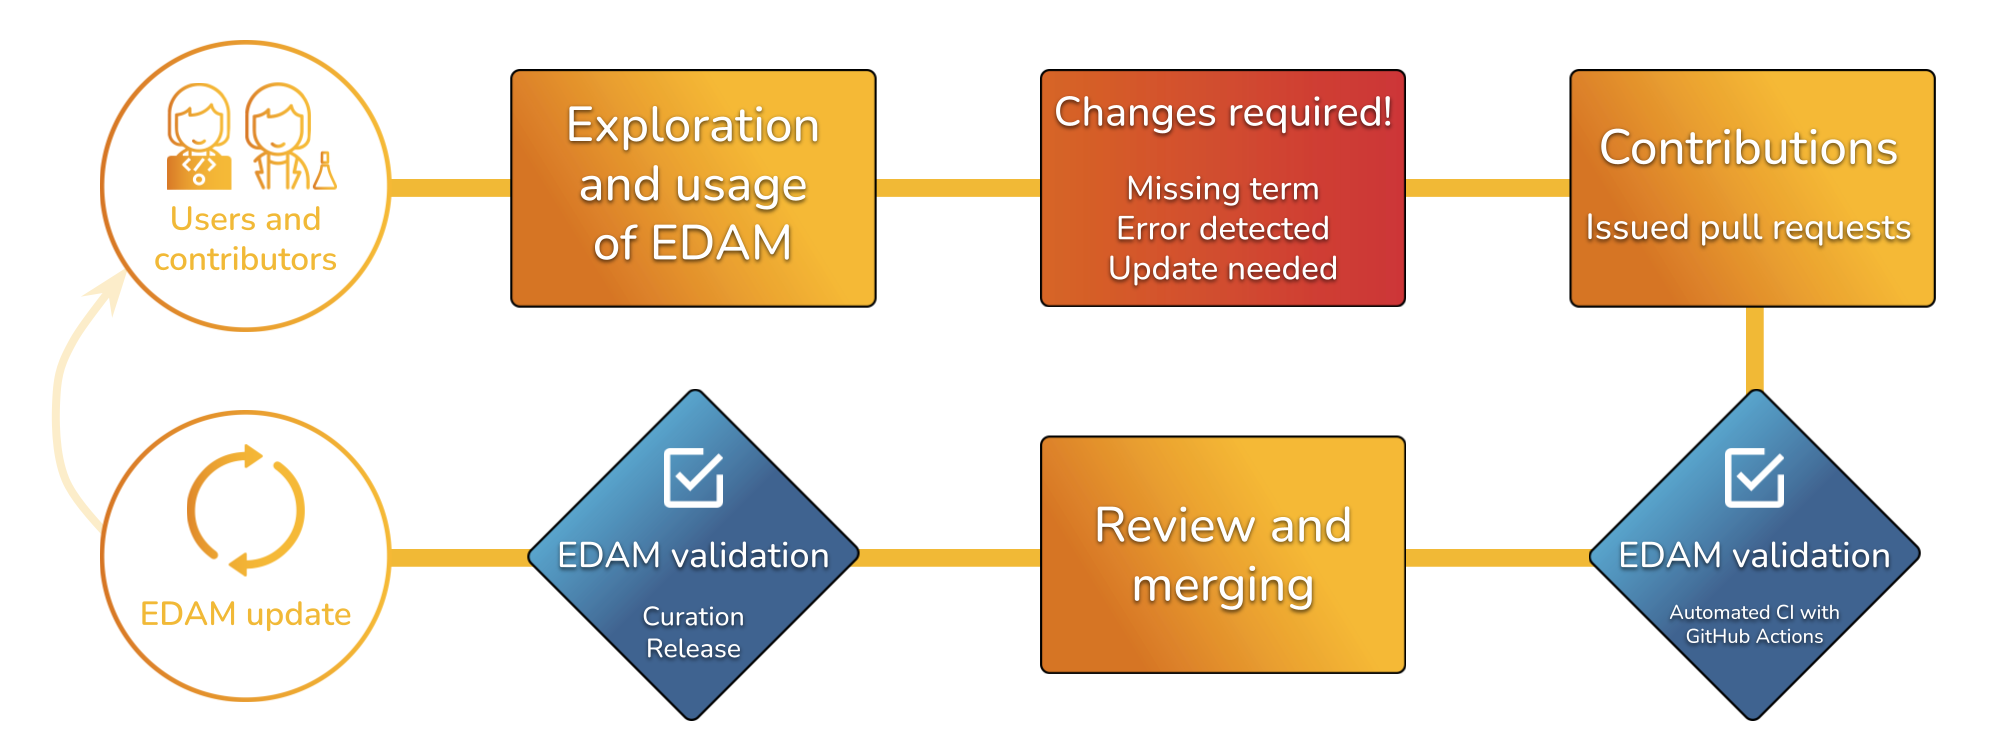
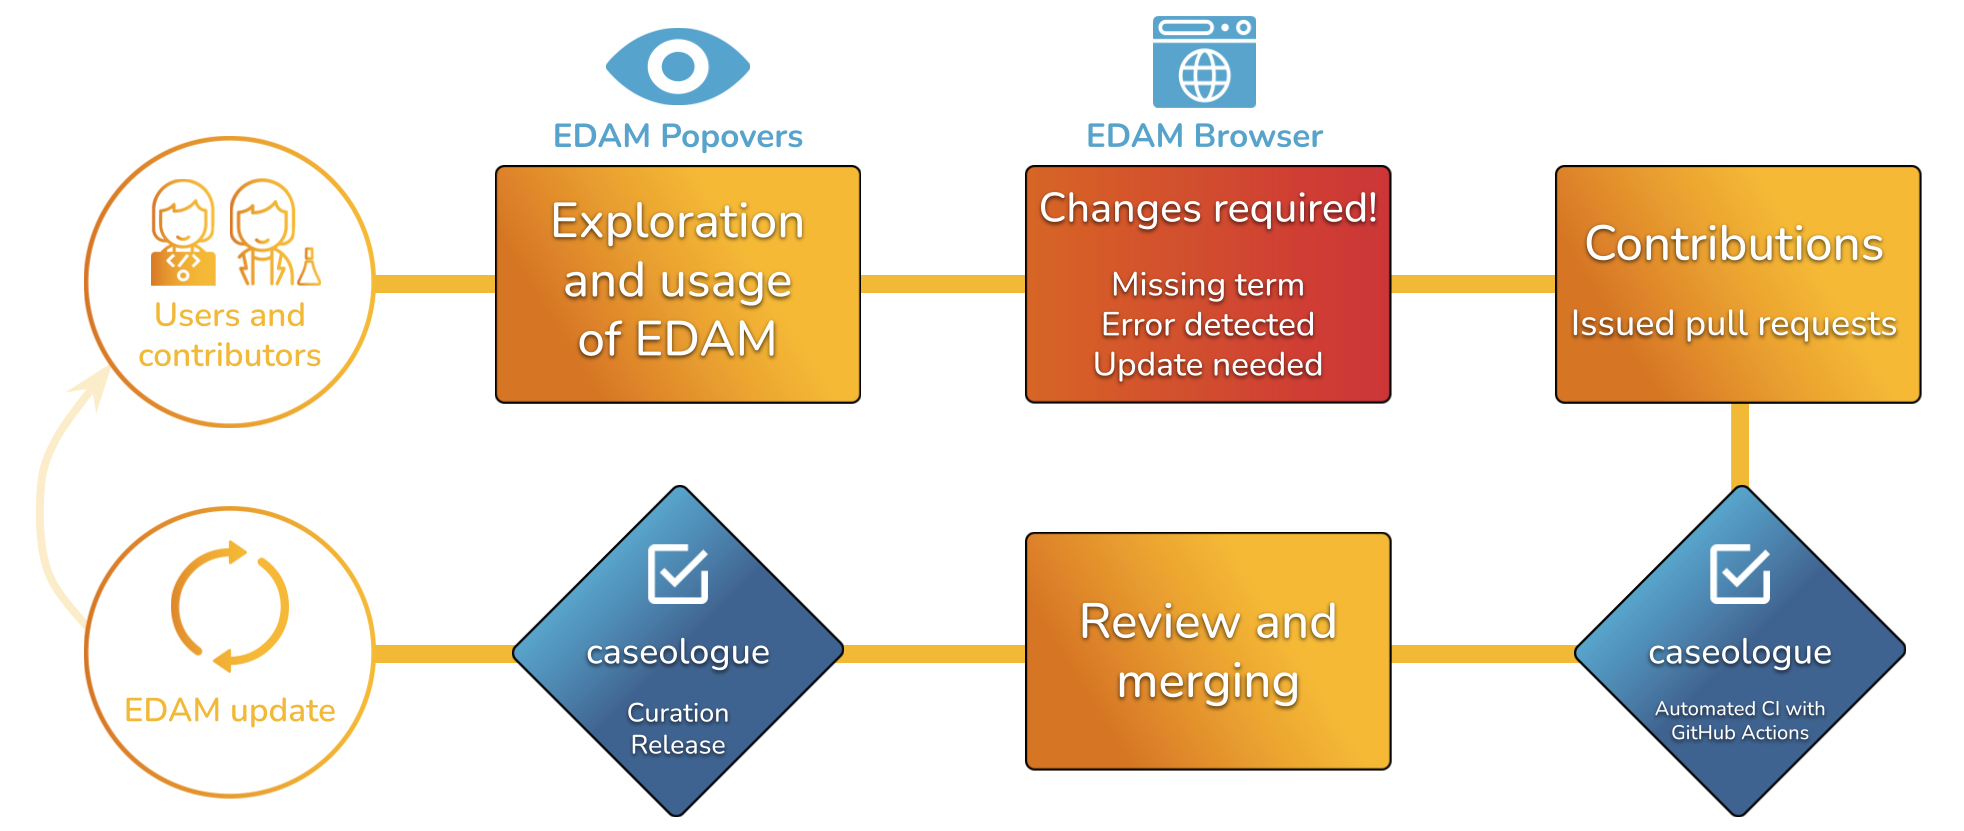
Updated docuementation content

Changed region(s): [[0.0, 0.0, 0.9939, 1.0]]

diff --git a/docs/workflow.rst b/docs/workflow.rst
@@ -3,4 +3,26 @@
 Workflows
 =============
 
-GitHub Actions workflow were designed to run all caseologue tools. 
+
+.. image:: _static/github_actions.png
+   :width: 300
+   :align: right
+
+The caselogue suite is implemented in **GitHub Actions** to run quality checks at **each Pull Requests merge** into the main EDAM Ontology repository. It can also be **run manually** when needed from the caseologue and the main edamontology repositories.
+
+You can test it yourself on the curent developpement version of EDAM clicking this `link <https://github.com/edamontology/caseologue/actions/workflows/caseologue.yml>`_ and click on "Run workflow". 
+
+.. image:: _static/run_wf.png
+  :width: 800
+  :align: center
+
+|
+A `reusable workflow <https://docs.github.com/en/actions/using-workflows/reusing-workflows>`_ is availble for each test in the caseologue repository (`here  <https://github.com/edamontology/caseologue/tree/main/.github/workflows>`_).
+The *caseologue_robot_report*, *caseologue_robot_reason* and *caseologue_python* workflows all take as input a path to an EDAM.owl file. *caseologue_python* can also take as input the error level options chosen to run the tool (see :doc:`caseologue custom python script page <caseologue_python>`)
+
+These reusable workflows can't run on their own, they need to be **called** by another GitHub Actions yaml file. This "caller" workflow will need to **upload** the tested EDAM.owl file as an `artifact <https://docs.github.com/en/actions/using-workflows/storing-workflow-data-as-artifacts>`_ so it can be **dowloaded** and used by the "called" worflow (i.e. *caseologue_robot_report*, *caseologue_robot_reason* or *caseologue_python*).
+
+You can find is an **example** of a script calling the caseologue suite of tool to run it on the current dev version on EDAM `here <https://github.com/edamontology/caseologue/blob/main/.github/workflows/caseologue.yml>`_.
+
+.. image:: _static/caseologue_wf.png
+  :width: 800

diff --git a/docs/robot_report.rst b/docs/robot_report.rst
@@ -3,11 +3,11 @@
 ROBOT report 
 =============
 
-General quality control for ontology is run on EDAM using the ROBOT `report command <http://robot.obolibrary.org/report>`_ from the robot suite. 
-Robot report is a command line tool caling a customizable list of `SPARQL queries <http://robot.obolibrary.org/report_queries/>`_. 
+**A general quality control** for ontology is run on EDAM using the ROBOT `report command <http://robot.obolibrary.org/report>`_ from the robot suite. 
+Robot report is a **command line tool** calling a **customizable list** of `SPARQL queries <http://robot.obolibrary.org/report_queries/>`_  that ensure **basic requirement** for all ontology fallowing the obo guidelines (e.g. presence of a liscence, more than one label in a entity) 
 Some of these queries were modified to fit the EDAM properties declaration. 
 
-You can check out our custom selection of the robot SPARQL queries in our caseologue repository  `here <https://github.com/edamontology/caseologue/tree/main/robot>`_. 
+You can check out our custom selection of the robot SPARQL queries in our caseologue repository  `here <https://github.com/edamontology/caseologue/tree/main/robot/report_queries.txt>`_. 
 
 Installation & Usage
 ---------------------
@@ -16,5 +16,6 @@ You can check out robot installation documentation  `here <http://robot.obolibra
 
 Once robot is installed you can run robot report on EDAM using this command
 ::
-robot report --input <path to EDAM> --output <output tsv file> --profile report_queries.txt
-::
+    robot report --input <path to EDAM> --output <output tsv file> --profile report_queries.txt
+
+This tool returns in the output tsv file a table of all the detected errors.

diff --git a/docs/caseologue_python.rst b/docs/caseologue_python.rst
@@ -4,7 +4,9 @@
 Caseologue custom python script
 =================================
 
-This custom pyhton script complement the test performed by the ELK reasoner and our custom version of the robot report tool. It alows us to test for specific features of the EDAM ontology (e.g. check for wikipedia links or for mandatory property)
+
+This custom pyhton script **complement** the test performed by the ELK reasoner and our custom version of the robot report tool.
+It alows us to test for **specific features** of the EDAM ontology (e.g. check for wikipedia links or for mandatory property)
 
 Installation & Usage
 ---------------------
@@ -24,6 +26,9 @@ By default the scrip will run all tests. You can filter the tests on error level
   -c, --curation   runs all curation tests
 
 Repartition of tests can be seen in the source code `here <file:///home/llamothe/work/edam-validation/caseologue/doc/_build/html/_modules/caseologue.html#suite>`_.
+
+Options
+~~~~~~~~~~
 
 * **Error**: tests insuring this semantic and sintactic consistency of the ontology, that are mandatory to pass for a pull request to be merged on the GitHub repository. 
 * **Essential**: error tests that can be applicable to other side of the EDAM ontology such as EDAM geo of EDAM bioimaging.

diff --git a/docs/reasoner.rst b/docs/reasoner.rst
@@ -1,11 +1,11 @@
 .. _reasonner:
 
 Reasoner - ELK
-=============
+=================
 
-A reasonner is run on EDAM using the ROBOT `reason command <http://robot.obolibrary.org/reason>`_, calling the `ELK <http://liveontologies.github.io/elk-reasoner/>`_ reasonner.
+A **reasonner** is run on EDAM using the ROBOT `reason command <http://robot.obolibrary.org/reason>`_, calling the `ELK <http://liveontologies.github.io/elk-reasoner/>`_ reasonner.
 
-By running ELK we ensure the of semantic consistency the EDAM ontology. 
+By running ELK we ensure the of **semantic consistency** the EDAM ontology by infering logical consequences from the ontology axioms. 
 
 Installation & Usage
 ---------------------
@@ -14,5 +14,4 @@ You can check out robot installation documentation  `here <http://robot.obolibra
 
 Once robot is installed you can run ELK with robot reason on EDAM using this command
 ::
-robot reason --reasoner ELK  --input <path to EDAM> -v 
-::
+    robot reason --reasoner ELK  --input <path to EDAM> -v 

diff --git a/README.md b/README.md
@@ -2,4 +2,4 @@
 
 **caseologue** is a set of tools used to ensure the consistency, coherence and stability of the EDAM ontology and its extensions.
 
-caseologue controls use the [ROBOT](http://robot.obolibrary.org/) tool, running both standard and custom queries, as well as a custom python package. All these controls are implemented and usable as GitHub Actions. Detailed documentation is available [here](https://edamontology.github.io/caseologue/).
+caseologue controls use the [ROBOT](http://robot.obolibrary.org/) tool, running both standard and custom queries, as well as a custom python script. All these controls are implemented and usable as GitHub Actions. Detailed documentation is available [here](https://edamontology.github.io/caseologue/).

diff --git a/docs/index.rst b/docs/index.rst
@@ -23,6 +23,7 @@ To understand EDAM and discover more about it's structure go and check out it's 
 
 Summary
 --------
+The tools and there usage in CI workflow are further described in the pages bellow: 
 
 .. toctree::
    :maxdepth: 1
